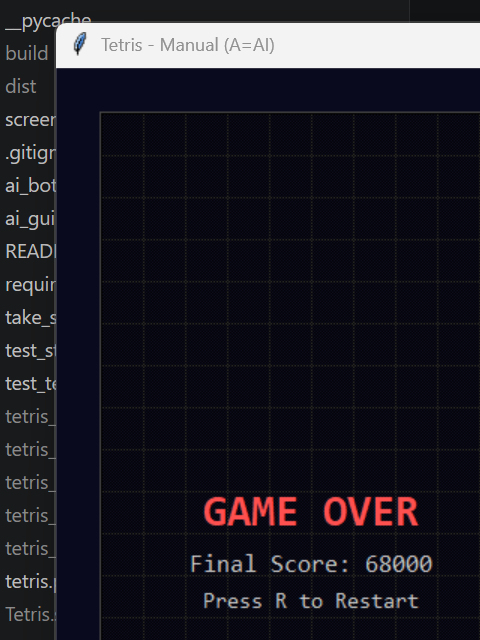
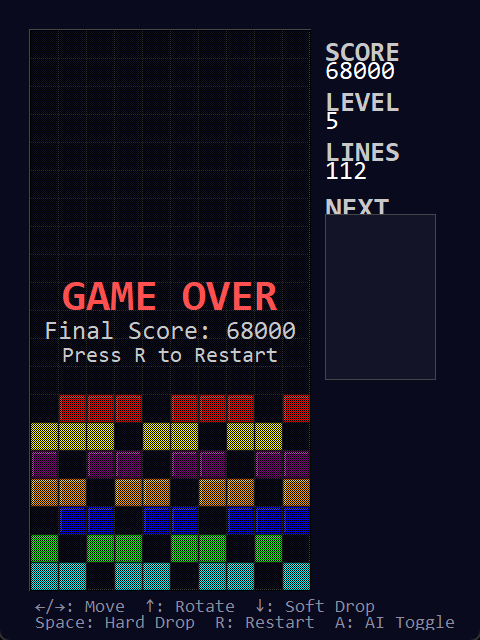
Fix screenshots with Windows API DPI-aware client capture

diff --git a/take_screenshots.py b/take_screenshots.py
@@ -1,18 +1,37 @@
 """Take screenshots of Tetris game for README"""
-import sys, os, time, tkinter as tk
+import sys, os, time, ctypes, tkinter as tk
+from ctypes import wintypes
 from PIL import ImageGrab
+
+# Fix DPI scaling mismatch
+ctypes.windll.user32.SetProcessDPIAware()
 
 sys.path.insert(0, os.path.dirname(__file__))
 from tetris import Tetris, Piece, GRID_WIDTH, GRID_HEIGHT
 
 os.makedirs('screenshots', exist_ok=True)
 
+def get_client_rect(hwnd):
+    """Get accurate client area screen coordinates via Windows API."""
+    rect = wintypes.RECT()
+    ctypes.windll.user32.GetClientRect(hwnd, ctypes.byref(rect))
+    pt = wintypes.POINT(0, 0)
+    ctypes.windll.user32.ClientToScreen(hwnd, ctypes.byref(pt))
+    return pt.x, pt.y, rect.right, rect.bottom
+
+def grab_window(root):
+    """Screenshot the tkinter window client area accurately."""
+    hwnd = ctypes.windll.user32.FindWindowW(None, root.title())
+    if not hwnd:
+        hwnd = int(root.frame(), 16)
+    x, y, w, h = get_client_rect(hwnd)
+    return ImageGrab.grab(bbox=(x, y, x + w, y + h))
+
 def take_screenshot(filename, prepare_fn):
     g = Tetris(ai_mode=False)
-    g.root.attributes('-topmost', True)  # force window on top
+    g.root.attributes('-topmost', True)
     g.root.update()
-    
-    # Populate stats
+
     g.score = 12500
     g.level = 5
     g.lines = 42
@@ -20,37 +39,23 @@ def take_screenshot(filename, prepare_fn):
     g.current.x = 4
     g.current.y = GRID_HEIGHT - 9
     g.next = Piece('I')
-    
-    # Apply prepare function (populate board, set menu, etc.)
+
     prepare_fn(g)
-    
-    # Force multiple renders
+
     for _ in range(10):
         g._draw()
         g.root.update()
     g.root.update_idletasks()
     time.sleep(1.0)
-    g.root.update()
-    
-    # Get ACCURATE window geometry
-    g.root.update_idletasks()
-    x = g.root.winfo_rootx()
-    y = g.root.winfo_rooty()
-    w = g.root.winfo_width()
-    h = g.root.winfo_height()
-    
-    print(f"  Window at ({x},{y}) {w}x{h}")
-    
-    # Bring to front and capture
     g.root.lift()
     g.root.attributes('-topmost', True)
     g.root.update()
     time.sleep(0.5)
-    
-    img = ImageGrab.grab(bbox=(x, y, x + w, y + h), all_screens=True)
+
+    img = grab_window(g.root)
     img.save(filename)
-    print(f"  Saved {filename}")
-    
+    print(f"  Saved {filename} ({img.width}x{img.height})")
+
     g.root.destroy()
     time.sleep(0.2)
 